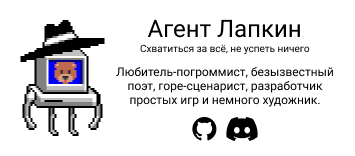
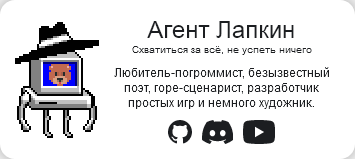
feat: add link to YouTube channel (#28)

diff --git a/docusaurus.config.ts b/docusaurus.config.ts
@@ -5,6 +5,7 @@ import remarkBreaks from 'remark-breaks';
 
 const discordInviteUrl = 'https://discord.gg/dCMuaGJktf'
 const githubUrl = 'https://github.com/gretmn102'
+const youtubeUrl = 'https://www.youtube.com/@agentlapki'
 
 const config: Config = {
   title: 'Агент Лапкин',
@@ -17,6 +18,7 @@ const config: Config = {
   customFields: {
     discordInviteUrl: discordInviteUrl,
     githubUrl: githubUrl,
+    youtubeUrl: youtubeUrl,
   },
 
   // Set the /<baseUrl>/ pathname under which your site is served
@@ -87,6 +89,15 @@ const config: Config = {
             {
               label: 'Discord',
               href: discordInviteUrl,
+            },
+          ],
+        },
+        {
+          title: 'Youtube Channel',
+          items: [
+            {
+              label: 'Youtube',
+              href: youtubeUrl,
             },
           ],
         },

diff --git a/src/pages/index.tsx b/src/pages/index.tsx
@@ -43,6 +43,18 @@ function GithubIcon() {
   );
 }
 
+function YoutubeIcon() {
+  const path = 'img/youtube-icon.svg#root'
+  return (
+    <svg
+      className={styles['youtube-icon']}
+      viewBox='0 0 43.101562 32'
+    >
+      <use xlinkHref={path} href={path} />
+    </svg>
+  );
+}
+
 function HomepageHeader() {
   const {siteConfig} = useDocusaurusContext();
   return (
@@ -73,6 +85,12 @@ function HomepageHeader() {
             to={siteConfig.customFields.discordInviteUrl}
           >
             {DiscordIcon()}
+          </Link>
+          <Link
+            className={styles['icon-container']}
+            to={siteConfig.customFields.youtubeUrl}
+          >
+            {YoutubeIcon()}
           </Link>
         </div>
       </div>

diff --git a/src/pages/index.module.css b/src/pages/index.module.css
@@ -139,3 +139,13 @@
 .discord-icon:hover {
   fill: var(--ifm-color-primary);
 }
+
+.youtube-icon {
+  width: auto;
+  height: 100%;
+  fill: var(--ifm-font-color-base);
+}
+
+.youtube-icon:hover {
+  fill: var(--ifm-color-primary);
+}
